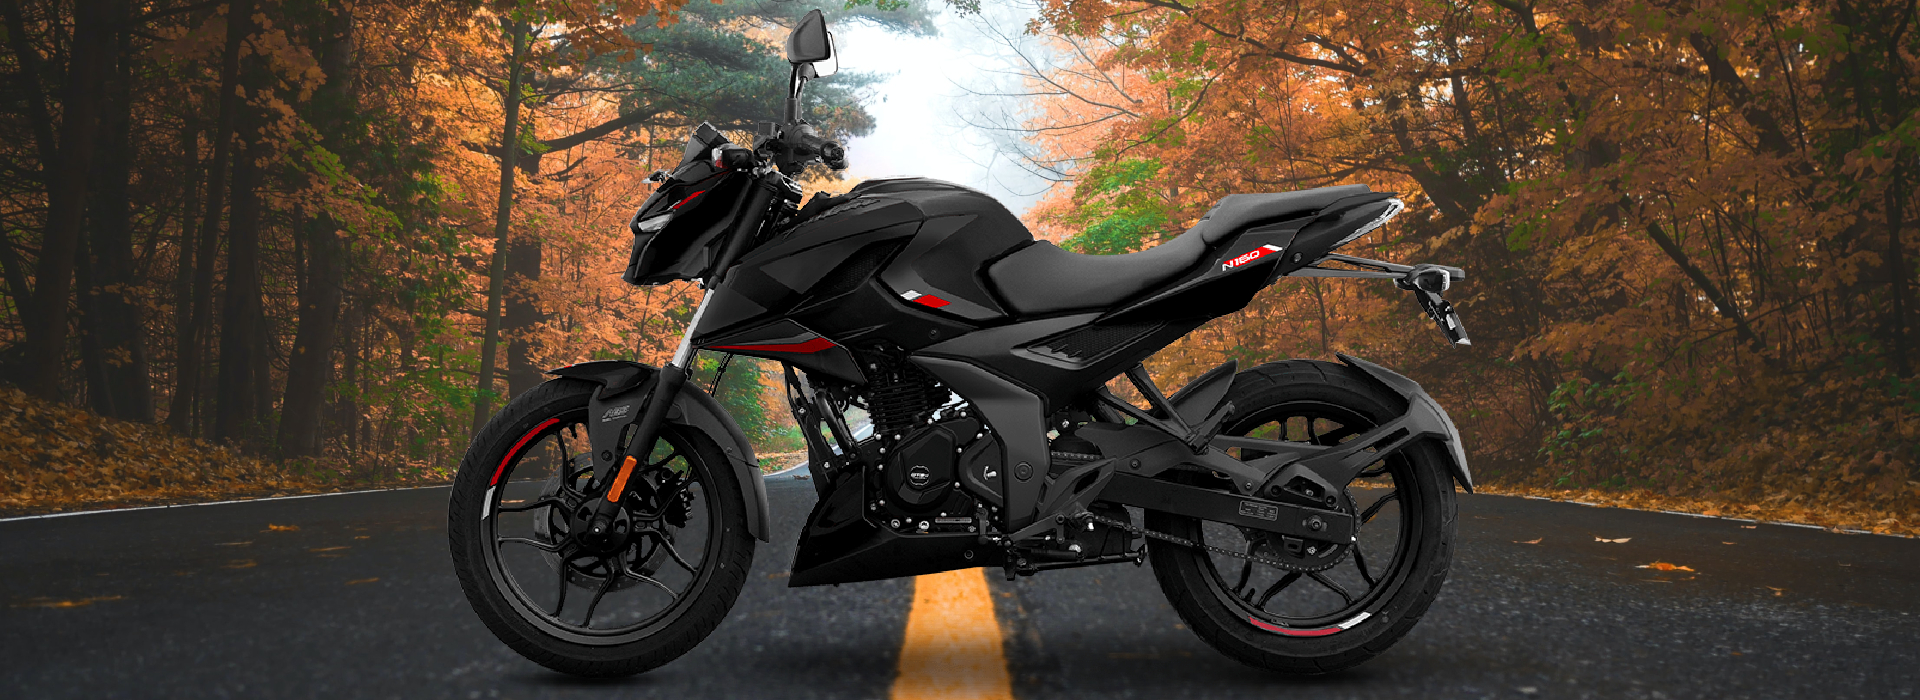
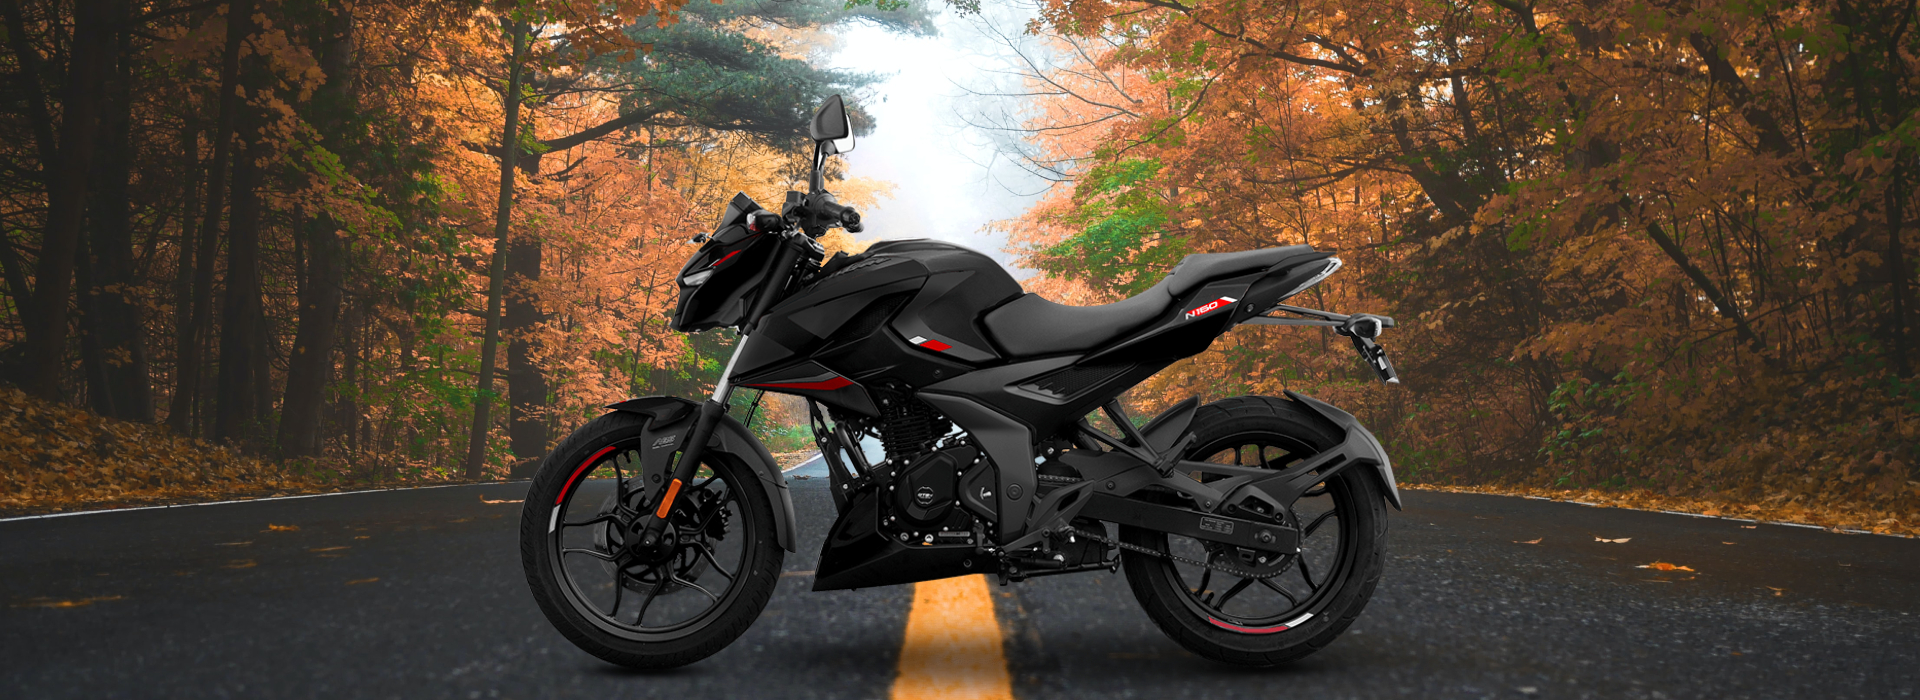
css edited

Changed region(s): [[0.2188, 0.0, 0.7812, 0.99], [0.4375, 0.96, 0.5312, 1.0]]

diff --git a/css/sequence-theme.modern-slide-in.css b/css/sequence-theme.modern-slide-in.css
@@ -300,7 +300,7 @@ html,
     /* Move the background radial to the left */
     background-position: 50% 100%;
   }
-@media only screen and (min-width: 1920px) {
+@media only screen and (min-width: 1919px) {
   .seq {
     /* Make the container 16:9 but no bigger than 90% of the screen height */
     position: relative;
